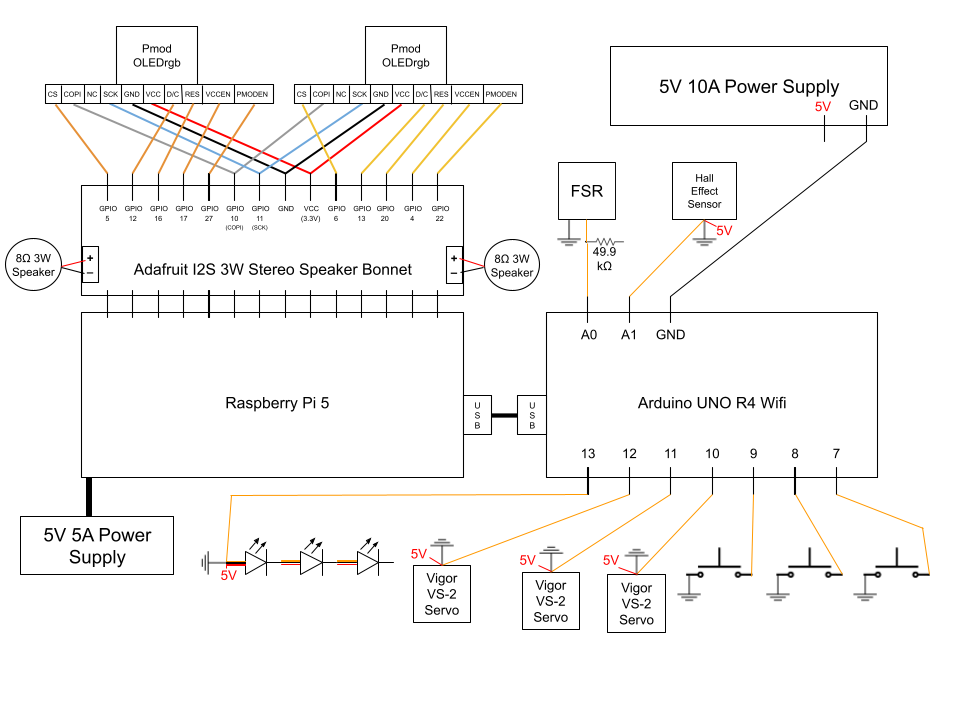
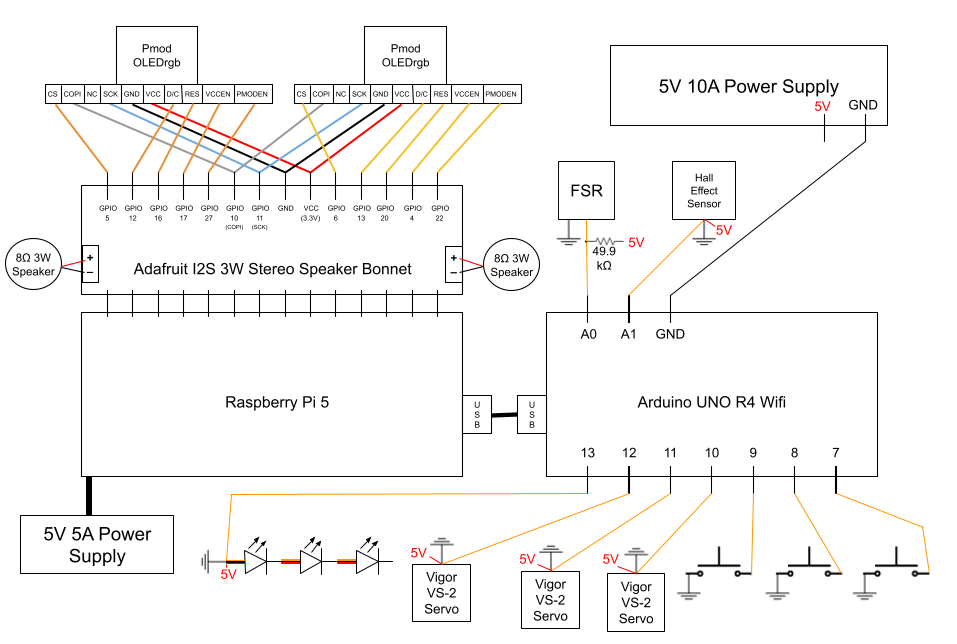
Fill out and reorganize EDA page

diff --git a/docs/EDA.html b/docs/EDA.html
@@ -1,126 +1,254 @@
 <!DOCTYPE HTML>
 <!--
-	Stellar by HTML5 UP
-	html5up.net | @ajlkn
-	Free for personal and commercial use under the CCA 3.0 license (html5up.net/license)
+    Stellar by HTML5 UP
+    html5up.net | @ajlkn
+    Free for personal and commercial use under the CCA 3.0 license
 -->
 <html>
-	<head>
-		<title>Electrical Design Analysis</title>
-		<link rel="icon" type="image/x-icon" href="images/logo cube small.png">
-		<meta charset="utf-8" />
-		<meta name="viewport" content="width=device-width, initial-scale=1, user-scalable=no" />
-		<link rel="stylesheet" href="assets/css/main.css" />
-		<noscript><link rel="stylesheet" href="assets/css/noscript.css" /></noscript>
-	</head>
-	<body class="is-preload">
 
-		<!-- Wrapper -->
-			<div id="wrapper">
+<head>
+	<title>Electrical Design Analysis</title>
+	<link rel="icon" type="image/x-icon" href="images/logo cube small.png">
+	<meta charset="utf-8" />
+	<meta name="viewport" content="width=device-width, initial-scale=1, user-scalable=no" />
+	<link rel="stylesheet" href="assets/css/main.css" />
+	<noscript>
+		<link rel="stylesheet" href="assets/css/noscript.css" />
+	</noscript>
 
-				<!-- Header -->
-					<header id="header">
-						<h1>Creature Feature</h1>
-					</header>
+	<!-- page-specific layout fixes -->
+	<style>
+		.component {
+			display: flex;
+			align-items: center;
+			gap: 24px;
+			margin: 2rem 0;
+		}
 
-                <!-- Nav -->
-				<nav id="nav">
-					<ul>
-						<li><a href="index.html" class="active">Home</a></li>
-						<li><a href="FSD.html">Full System Diagram</a></li>
-						<li><a href="time.html">Timeline</a></li>
-						<li><a href="ASD.html">Design Process</a></li>
-						<li><a href="DEF.html">Data and Energy Flow</a></li>
-						<li><a href="EDA.html"><b>Electrical Design Analysis</b></a></li>
-						<li><a href="MDA.html">Mechanical Design Analysis</a></li>
-						<li><a href="FDC.html">Software Design Analysis</a></li>
-						<li><a href="BOM.html">Bill of Materials</a></li>
-					</ul>
-				</nav>
+		.component img {
+			width: 400px;
+			height: auto;
+			flex-shrink: 0;
+		}
 
-				<!-- Main -->
-				<div id="main">
+		@media (max-width: 768px) {
+			.component {
+				flex-direction: column;
+				text-align: center;
+			}
+		}
+	</style>
+</head>
 
-					<!-- Content -->
-						<section id="content" class="main">
-							<header class="major">
-								<h2>Circuit Diagram</h2>
-							</header>
-							<img src = "images/final circuit white bg.png" width = "900" height = "auto" display = "block" left-margin = "auto" right-margin = "auto" alt = "schematic">
-							<p>
-								Description
-							</p>
-							<br>
-							<h3>Individual Components</h3>
-							<img src = "images\individual electrical components\rasppi.png" width = "400" height = "auto" display = "block" left-margin = "auto" right-margin = "auto" alt = "electrical_system">
-							<p>
-								Description
-							</p>
+<body class="is-preload">
 
-							<img src = "images\individual electrical components\arduino.png" width = "400" height = "auto" display = "block" left-margin = "auto" right-margin = "auto" alt = "electrical_system">
-							<p>
-								Description
-							</p>
+	<!-- Wrapper -->
+	<div id="wrapper">
 
-							<img src = "images\individual electrical components\speaker.png" width = "400" height = "auto" display = "block" left-margin = "auto" right-margin = "auto" alt = "electrical_system">
-							<p>
-								Description
-							</p>
+		<!-- Header -->
+		<header id="header">
+			<h1>Creature Feature</h1>
+		</header>
 
-							<img src = "images\individual electrical components\speaker bonnet.png" width = "400" height = "auto" display = "block" left-margin = "auto" right-margin = "auto" alt = "electrical_system">
-							<p>
-								Description
-							</p>
+		<!-- Nav -->
+		<nav id="nav">
+			<ul>
+				<li><a href="index.html">Home</a></li>
+				<li><a href="FSD.html">Full System Diagram</a></li>
+				<li><a href="time.html">Timeline</a></li>
+				<li><a href="ASD.html">Design Process</a></li>
+				<li><a href="DEF.html">Data and Energy Flow</a></li>
+				<li><a href="EDA.html" class="active"><b>Electrical Design Analysis</b></a></li>
+				<li><a href="MDA.html">Mechanical Design Analysis</a></li>
+				<li><a href="FDC.html">Software Design Analysis</a></li>
+				<li><a href="BOM.html">Bill of Materials</a></li>
+			</ul>
+		</nav>
 
-							<img src = "images\individual electrical components\led screen.png" width = "400" height = "auto" display = "block" left-margin = "auto" right-margin = "auto" alt = "electrical_system">
-							<p>
-								Description
-							</p>
+		<!-- Main -->
+		<div id="main">
 
-							<img src = "images\individual electrical components\servo.png" width = "400" height = "auto" display = "block" left-margin = "auto" right-margin = "auto" alt = "electrical_system">
-							<p>
-								Description
-							</p>
-							
-							<img src = "images\individual electrical components\force receptor.png" width = "400" height = "auto" display = "block" left-margin = "auto" right-margin = "auto" alt = "electrical_system">
-							<p>
-								Description
-							</p>
-							
-							<img src = "images\individual electrical components\hall effect.png" width = "400" height = "auto" display = "block" left-margin = "auto" right-margin = "auto" alt = "electrical_system">
-							<p>
-								Description
-							</p>
-							
-							<img src = "images\individual electrical components\button.png" width = "400" height = "auto" display = "block" left-margin = "auto" right-margin = "auto" alt = "electrical_system">
-							<p>
-								Description
-							</p>
-							
-						</section>
+			<!-- Content -->
+			<section id="content" class="main">
 
+				<header class="major">
+					<h2>Circuit Diagram</h2>
+				</header>
+
+				<img src="images/final circuit white bg.png" alt="schematic"
+					style="display:block; margin:0 auto; max-width:900px; width:100%; height:auto;">
+
+				<p>
+					We used Google Drawing to create our circuit diagram. It contains all of the following:
+				</p>
+				<ul>
+					<li>Raspberry Pi 5</li>
+					<li>Arduino Uno R4 Wifi</li>
+					<li>Adafruit I2S 3W Stereo Speaker Bonnet</li>
+					<li>8W 3Ohm Speakers (2)</li>
+					<li>PmodOLEDrgb Screens (3)</li>
+					<li>Vigor VS-2 Servo (3)</li>
+					<li>REXTiN WS2811 Pixel LEDs (3)</li>
+					<li>Force Resitive Sensor</li>
+					<li>Hall Effect Sensor</li>
+					<li>Push Button (3)</li>
+					<li>5V 10A Power Supply</li>
+					<li>5V 5A Power Supply (Raspberry Pi)</li>
+				</ul>
+				<p>
+					The Raspberry Pi is the main controller of the system,
+					handling high-level tasks such as audio and screens, and
+					coordinating with the Arduino through serial.
+					It manages the state machine while providing
+					variables to the Arduino for low-level control.
+					The Arduino manages real-time interactions with sensors and servos,
+					ensuring responsive behavior. The raspberry pi is powered by a dedicated 5V 5A power supply,
+					and the Arduino, speaker bonnet, speakers, and OLED screens draw power through the Raspberry Pi.
+					All other components are powered by an additional 5V 10A power supply.
+					The various components are interconnected to facilitate communication and
+					control, enabling the creature to perform its intended functions.
+				</p>
+
+				<hr>
+
+				<h3>Individual Components</h3>
+
+				<div class="component">
+					<img src="images/individual electrical components/rasppi.png" alt="raspberry pi">
+					<p>The Raspberry Pi 5 acts as the brain of the creature. It manages emotional state,
+						plays audio through the speaker bonnet, and displays visuals on the OLED screens. It stores and
+						runs
+						all the necessary Python code for the creature to function, while also storing, compiling, and
+						uploading
+						code to the Arduino.
+					</p>
 				</div>
 
-				<!-- Footer -->
-					<footer id="footer">
-						<section>
-							<h3>Back to main page</h3>
-								<li><a href="index.html" class="button">Back to Home</a></li>
-							</ul>
-						</section>
-						<p class="copyright">&copy; Creature Feature. Design: <a href="https://html5up.net">HTML5 UP</a>.</p>
-					</footer>
+				<div class="component">
+					<img src="images/individual electrical components/arduino.png" alt="arduino">
+					<p>The Arduino Uno R4 Wifi acts as the heart of the creature. It runs one continuous script that
+						takes in sensor data from the force resistive sensor, hall effect sensor, and push buttons to
+						allow the creature to respond to user interactions in real time. It also controls the servos and
+						pixel LEDs to
+						bring movement and convey information about the creature's emotional state.
+					</p>
+				</div>
 
-			</div>
+				<div class="component">
+					<img src="images/individual electrical components/speaker bonnet.png" alt="speaker bonnet">
+					<p>The speaker Bonnet connects directly to the entire Raspberry Pi pinout, and uses GPIO 18, 19, and
+						21
+						to play audio files stored on the Raspberry Pi through speakers. It uses the I2S protocol to
+						communicate with the Raspberry Pi. It also has breakout holes that allow for other components,
+						namely the screens, to be soldered directly onto it for a stable connection. It is one of the
+						highest
+						power drawing components connected to the Raspberry Pi, requiring up to 3W per channel at max
+						volume.
+					</p>
+				</div>
 
-		<!-- Scripts -->
-			<script src="assets/js/jquery.min.js"></script>
-			<script src="assets/js/jquery.scrollex.min.js"></script>
-			<script src="assets/js/jquery.scrolly.min.js"></script>
-			<script src="assets/js/browser.min.js"></script>
-			<script src="assets/js/breakpoints.min.js"></script>
-			<script src="assets/js/util.js"></script>
-			<script src="assets/js/main.js"></script>
 
-	</body>
+				<div class="component">
+					<img src="images/individual electrical components/speaker.png" alt="speaker">
+					<p>There are two speakers attached directly to the speaker bonnet. They are not particularly loud,
+						or the best quality. This was a tradeoff we made in order to stay within our power budget, as
+						we have a lot of peripherals connected to the Raspberry Pi and Arduino that also draw a lot of
+						power.
+						We also wanted them to be small enough to fit within the creature's base. Additionally, we
+						wanted
+						to imitate the slightly eerie sound of a furby, and the lower quality speakers help with that
+						effect.
+					</p>
+				</div>
+
+				<div class="component">
+					<img src="images/individual electrical components/led screen.png" alt="led screen">
+					<p>The 2 OLED screens act as the creature's eyes. They display different animations depending on the
+						creature's
+						mood. The screens are connected directly to the speaker bonnet via soldered connections, using
+						SPI communication.
+						They are powered through the Raspberry Pi's 3.3V and GND pins and each take 6 GPIO pins along
+						with COPI and Serial Clock. They are the part of the system that had to be most carefully wired
+						due to
+						the large number of wires and need to travel up into the moving creature.
+					</p>
+				</div>
+
+				<div class="component">
+					<img src="images/individual electrical components/servo.png" alt="servo motor">
+					<p>There are 3 servos inside of the creature's base. These act as spine control. They
+						are each attached to a spool that has string around it, and spinning the servos pulls on
+						the string to pull the creature's spine toward that corner. This allows the creature to
+						lean and wiggle and move in different directions, conveying emotion.
+					</p>
+				</div>
+
+				<div class="component">
+					<img src="images/individual electrical components/Pixels.png" alt="arduino">
+					<p>The Pixel LEDs are individually addressable. Their data line is wired to the Arduino,
+						while their power and ground are connected to the 5V 10A power supply. They are
+						on the front panel of the creature's base. 2 of them act as mood indicator lights,
+						while the third acts as a back status light.
+					</p>
+				</div>
+
+				<div class="component">
+					<img src="images/individual electrical components/force receptor.png" alt="force sensor">
+					<p>The force resistive sensor is placed on top of the creature's head. This senses any weight
+						on top of the creature. It's intended to allow users to push on the head. It was calibrated
+						to detect anything from a light brush to a firm press. There was an additional resistor wired to
+						it to allow for increased sensitivity to lighter touches.
+					</p>
+				</div>
+
+				<div class="component">
+					<img src="images/individual electrical components/hall effect.png" alt="hall effect sensor">
+					<p>The hall effect sensor is embedded in the beak of the creature. Its intended purpose
+						is to detect when an object with an embedded magnet is placed into the beak. It is calibrated
+						to detect a magnet within about 2mm. This allows users to "feed" the creature.
+					</p>
+				</div>
+
+				<div class="component">
+					<img src="images/individual electrical components/button.png" alt="push button">
+					<p>There are 3 buttons in the base of the creature, one is assigned to each light. One acts as a
+						"feed" mode button so that the creature's hall effect sensor is activated to detech the food,
+						one acts as a "play" mode so that the creature's force sensor is activated to detect head
+						petting,
+						and one acts as a back button to interupt states and return to idle. If all three buttons are
+						pressed,
+						Raspberry Pi will run a shutdown script that safely powers down the screens and resets the
+						Arduino.
+					</p>
+				</div>
+
+			</section>
+		</div>
+
+		<!-- Footer -->
+		<footer id="footer">
+			<section>
+				<h3>Back to main page</h3>
+				<ul class="actions">
+					<li><a href="index.html" class="button">Back to Home</a></li>
+				</ul>
+			</section>
+			<p class="copyright">
+				&copy; Creature Feature. Design: <a href="https://html5up.net">HTML5 UP</a>.
+			</p>
+		</footer>
+
+	</div>
+
+	<!-- Scripts -->
+	<script src="assets/js/jquery.min.js"></script>
+	<script src="assets/js/jquery.scrollex.min.js"></script>
+	<script src="assets/js/jquery.scrolly.min.js"></script>
+	<script src="assets/js/browser.min.js"></script>
+	<script src="assets/js/breakpoints.min.js"></script>
+	<script src="assets/js/util.js"></script>
+	<script src="assets/js/main.js"></script>
+
+</body>
+
 </html>
